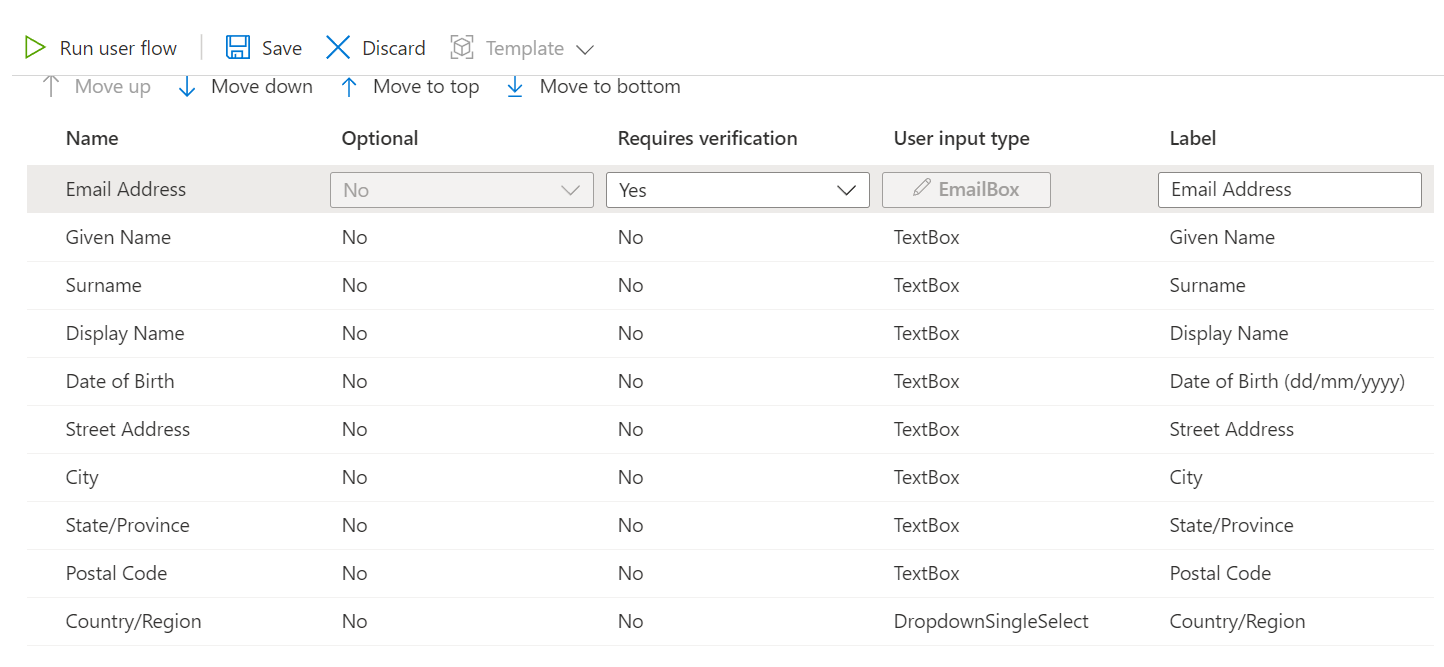
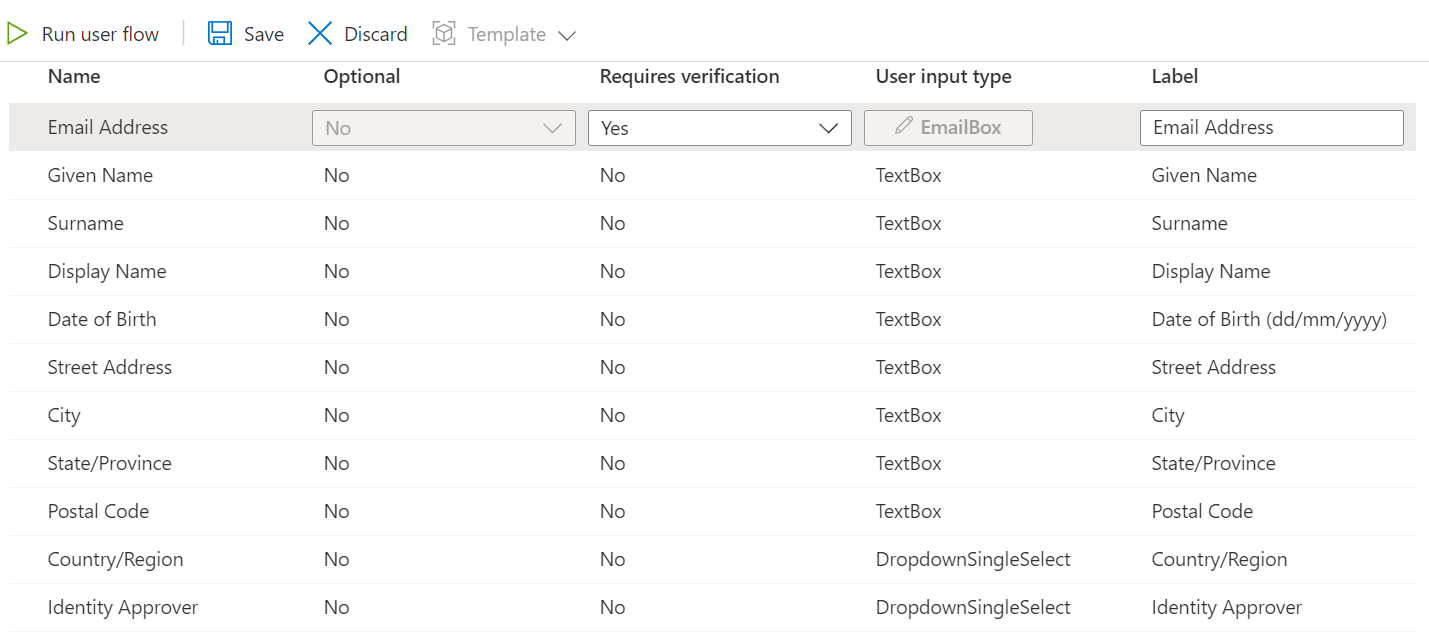
updated identity approver

diff --git a/aadb2c.md b/aadb2c.md
@@ -58,7 +58,7 @@ Before an applications can interact with Azure AD B2C, it must be registered in 
 
 ![image](/images/aadb2c/app-registration4.png)
 
-- In the application, navigate to the ``Certificates & secrets page
+- In the application, navigate to the ``Certificates & secrets`` page
 
 - Add a new client secret
 
@@ -69,9 +69,9 @@ Before an applications can interact with Azure AD B2C, it must be registered in 
 ![image](/images/aadb2c/app-registration6.png)
 
 
-# Adding a Custom Attribute
+# Adding Custom Attribute
 
-Azure AD B2C does not contain a Built-in attribute for **Date of Birth**. We will add this as a custom attribute.
+Azure AD B2C does not contain a Built-in attributes for **Date of Birth** and **Identity Approver**. The Identity Approver attribute can be used by the organization to manage the approval of a user sign up among several different departments or approvers. We will add these as custom attributes.
 
 - Open the B2C tenant
 
@@ -82,6 +82,10 @@ Azure AD B2C does not contain a Built-in attribute for **Date of Birth**. We wil
 - Add the **Date of Birth** custom attribute 
 
 ![image](/images/aadb2c/attribute-add2.png)
+
+- Add the **Identity Approver** custom attribute
+
+![image](/images/aadb2c/attribute-add4.png)
 
 - Click the ``Create`` button when you are done
 
@@ -120,6 +124,7 @@ The sign up/ sign in workflow will allow the user to sign up for a Digital ID.
     - Email Address
     - Email Addresses
     - Given Name
+    - Identity Approver
     - Postal Code
     - State/Province
     - Street Address
@@ -143,6 +148,10 @@ The sign up/ sign in workflow will allow the user to sign up for a Digital ID.
 - Format the sign-up page user attributes as follows :
 
 ![image](/images/aadb2c/signup-layout2.png)
+
+- Add the available Identity Approver(s) as a dropdown select
+
+![image](/images/aadb2c/signup-layout6.png)
 
 - Click the ``Save`` icon when you are done
 
